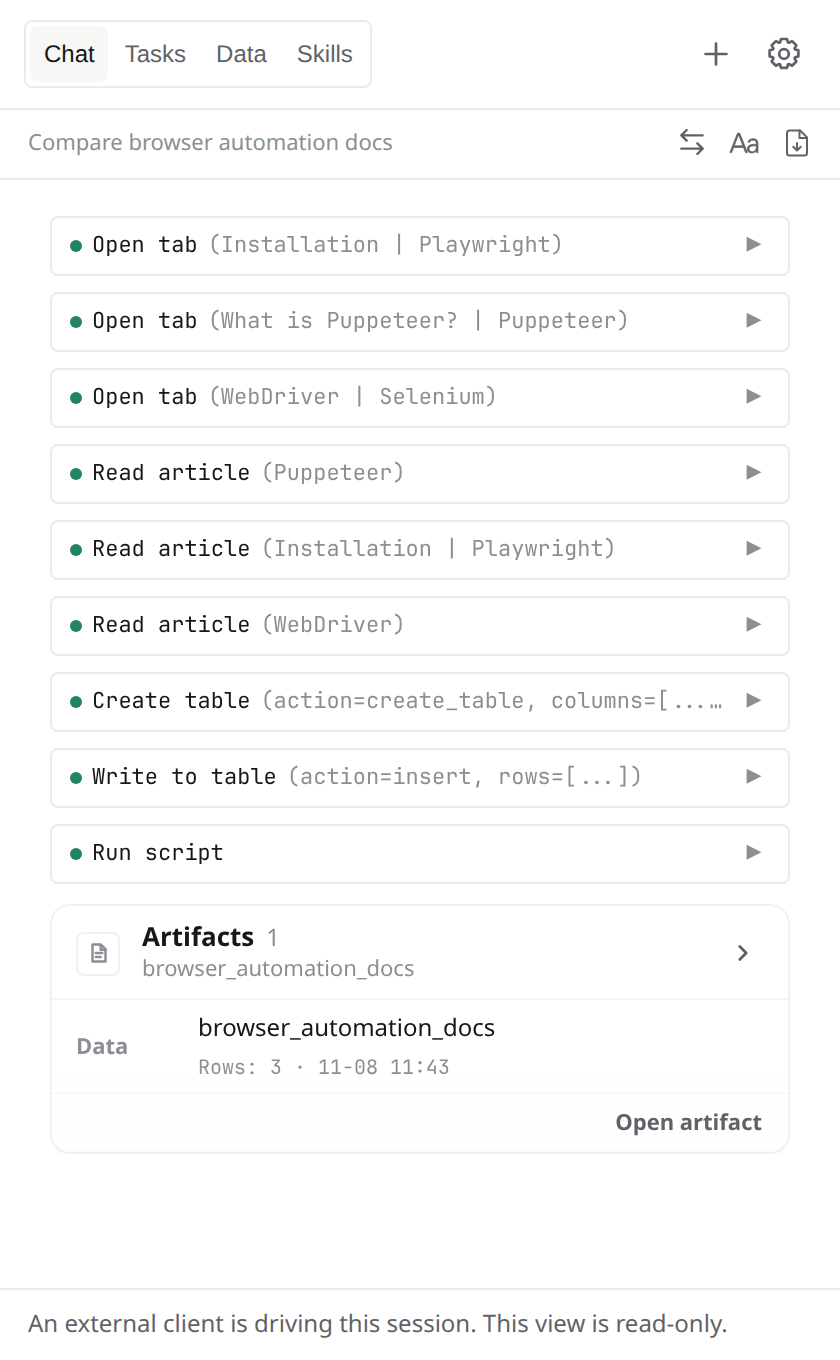
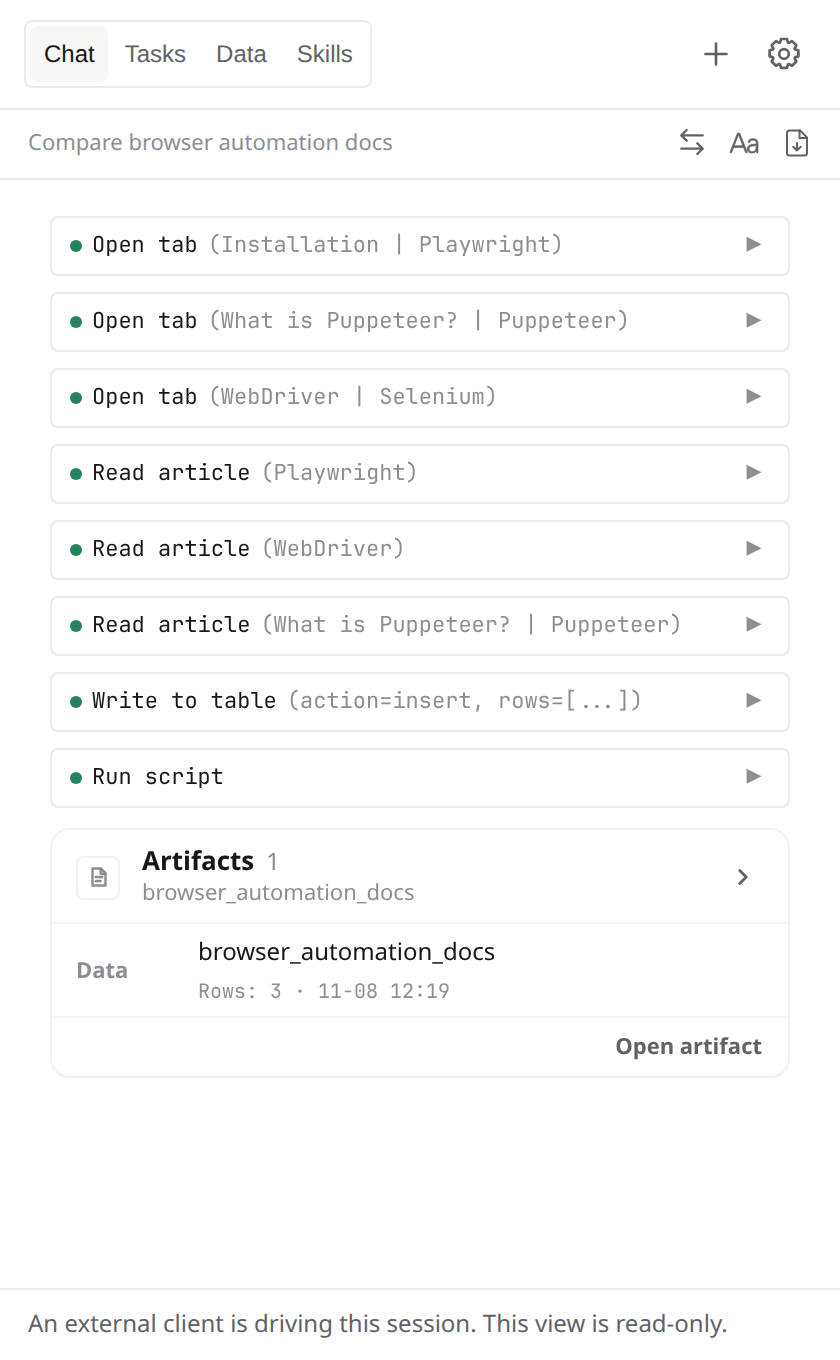
website: show the full direct-drive script inline and keep both agent tabs the same height

diff --git a/website/assets/site.css b/website/assets/site.css
@@ -120,19 +120,27 @@ code { font-size: .92em; overflow-wrap: anywhere; }
 .agent-access { border-top: 1px solid var(--line); }
 .agent-access .section-heading { display: flex; flex-wrap: wrap; justify-content: space-between; gap: 20px 40px; }
 .agent-access .section-heading > p { text-wrap: balance; }
-.agent-demo { margin-top: 38px; padding: 32px; border: 1px solid var(--line); border-radius: 8px; background: var(--soft); }
-.agent-mode-tabs { display: inline-flex; gap: 2px; margin-bottom: 24px; padding: 3px; border: 1px solid var(--line); border-radius: 6px; background: var(--surface); }
+.agent-demo { display: grid; grid-template-columns: minmax(0, 1fr); margin-top: 38px; padding: 32px; border: 1px solid var(--line); border-radius: 8px; background: var(--soft); }
+.agent-mode-tabs { display: inline-flex; justify-self: start; gap: 2px; margin-bottom: 24px; padding: 3px; border: 1px solid var(--line); border-radius: 6px; background: var(--surface); }
 .agent-mode-tabs[hidden] { display: none; }
 .agent-mode-tabs button { min-height: 34px; padding: 6px 16px; border: 0; border-radius: 4px; background: transparent; color: var(--secondary); font-size: 13px; font-weight: 500; transition: background-color 180ms var(--ease), color 180ms var(--ease); }
 .agent-mode-tabs button:hover, .agent-mode-tabs button[aria-selected="true"] { color: var(--ink); }
 .agent-mode-tabs button[aria-selected="true"] { background: var(--soft); }
 .agent-mode-tabs button:focus-visible { outline-offset: 2px; }
+.agent-mode { display: flex; flex-direction: column; min-width: 0; }
+.agent-mode[hidden] { display: none; }
+.agent-mode > .agent-demo-grid { flex: 1; }
 .agent-mode-tabs[hidden] ~ .agent-mode + .agent-mode { margin-top: 40px; }
 .agent-mode-summary { max-width: 720px; margin-bottom: 28px; font-size: 14px; line-height: 1.75; color: var(--secondary); }
+/* Side by side, both modes share one cell so switching tabs keeps the page height. */
+@media (min-width: 961px) {
+  .agent-mode-tabs:not([hidden]) ~ .agent-mode { grid-area: 2 / 1; }
+  .agent-mode-tabs:not([hidden]) ~ .agent-mode[hidden] { display: flex; visibility: hidden; }
+}
 .agent-demo-grid { display: grid; grid-template-columns: minmax(0, 1fr) 24px minmax(0, 360px); gap: 22px; align-items: stretch; }
 .agent-console-column, .agent-panel-column { display: grid; grid-template-rows: auto 1fr; min-width: 0; }
 .agent-surface-label { margin-bottom: 16px; font-size: 10px; font-weight: 550; line-height: 1.5; letter-spacing: 1px; color: var(--secondary); }
-.agent-console { overflow: hidden; min-width: 0; border: 1px solid #353535; border-radius: 6px; background: #191919; color: #f2f2f0; font-family: 'SF Mono', Consolas, monospace; }
+.agent-console { container-type: inline-size; overflow: hidden; min-width: 0; border: 1px solid #353535; border-radius: 6px; background: #191919; color: #f2f2f0; font-family: 'SF Mono', Consolas, monospace; }
 .console-titlebar { display: flex; align-items: center; gap: 15px; min-height: 42px; padding: 10px 18px; border-bottom: 1px solid #333; font-size: 11px; color: #b9b9b6; }
 .console-titlebar > span:last-child { margin-left: auto; font-family: -apple-system, BlinkMacSystemFont, 'Segoe UI', sans-serif; font-size: 10px; }
 .console-dots { display: flex; gap: 5px; }
@@ -140,6 +148,10 @@ code { font-size: .92em; overflow-wrap: anywhere; }
 .console-body { display: flex; flex-direction: column; gap: 18px; padding: 25px 24px; font-size: 14px; line-height: 1.7; overflow-wrap: anywhere; }
 .console-command { display: flex; gap: 12px; align-items: baseline; }
 .console-command code { font: inherit; }
+.console-heredoc { display: flex; flex-direction: column; gap: 6px; min-width: 0; }
+.console-script { margin: 0; padding-left: calc(1ch + 12px); overflow-x: auto; font: inherit; font-size: clamp(10.5px, calc((100cqi - 62px) / 43), .93em); line-height: 1.6; color: #e4e4e1; white-space: pre; scrollbar-width: thin; scrollbar-color: #444 transparent; }
+.console-script code { font: inherit; }
+.console-comment { color: #8b8b87; }
 .console-dollar { flex: none; color: #8b8b87; user-select: none; }
 .console-response, .console-tools { display: flex; flex-direction: column; gap: 2px; }
 .console-response strong { font-weight: 550; }
@@ -297,12 +309,12 @@ video { display: block; width: 100%; max-height: 70dvh; aspect-ratio: 16 / 9; ba
 }
 
 
-@media (max-width: 1000px) {
+@media (max-width: 1100px) {
   .agent-demo { padding: 22px; }
   .agent-demo-grid { grid-template-columns: minmax(0, 1fr) 20px minmax(0, 310px); gap: 16px; }
   .console-body { padding: 20px; gap: 17px; font-size: 12px; }
 }
-@media (max-width: 800px) {
+@media (max-width: 960px) {
   .agent-demo-grid { grid-template-columns: minmax(0, 1fr); gap: 20px; }
   .agent-panel-column { width: min(100%, 420px); justify-self: center; }
   .agent-connector { justify-self: center; transform: rotate(90deg); }
@@ -310,13 +322,14 @@ video { display: block; width: 100%; max-height: 70dvh; aspect-ratio: 16 / 9; ba
 }
 @media (max-width: 700px) {
   .agent-demo { margin-top: 28px; padding: 14px; }
-  .agent-mode-tabs { display: flex; margin-bottom: 18px; }
+  .agent-mode-tabs { display: flex; justify-self: stretch; margin-bottom: 18px; }
   .agent-mode-tabs button { flex: 1; padding-inline: 10px; }
   .agent-mode-summary { margin-bottom: 22px; font-size: 13px; }
   .agent-surface-label { font-size: 9px; margin-bottom: 12px; letter-spacing: .7px; }
   .console-titlebar { padding-inline: 14px; }
   .console-body { padding: 20px 15px; font-size: 12px; gap: 18px; }
   .console-command { gap: 8px; }
+  .console-script { padding-left: calc(1ch + 8px); }
   .agent-setup-note { display: block; margin-top: 26px; }
 }
 

diff --git a/website/assets/translations.js b/website/assets/translations.js
@@ -81,10 +81,9 @@ export const translations = {
       "agentTaskTab": "Hand qz a task",
       "agentDriveSummary": "No model to configure in qz: the agent you already use gets the same browser abilities as qz. One script runs every step in your browser and returns only the result, so it stays token-efficient.",
       "agentDriveCreate": "qz session create --title \"Compare browser automation docs\"",
-      "agentDriveSession": "sessionId 957371d5090d4412997473c807dcbe19",
-      "agentDriveReading": "I’ll read the three official docs with one qz script.",
-      "agentDriveScript": "qz script --session 957371d5090d4412997473c807dcbe19 compare-docs.js",
-      "agentDriveResult": "Saved 3 rows with source links.",
+      "agentDriveSession": "sessionId 53d24037c61a42ed812910577cc7578c",
+      "agentDriveScript": "qz script --session 53d24037c61a42ed812910577cc7578c - &lt;&lt;'JS'",
+      "agentDriveCode": "<span class=\"console-comment\">// Read three docs in parallel; save a sourced table in qz.</span>\nconst docs = {\n  Playwright: \"https://playwright.dev/docs/intro\",\n  Puppeteer: \"https://pptr.dev/guides/what-is-puppeteer\",\n  Selenium: \"https://www.selenium.dev/documentation/webdriver/\",\n};\nconst rows = await Promise.all(\n  Object.entries(docs).map(async ([Tool, Source]) =&gt; {\n    const page = qz.tab(await qz.openTab({ url: Source }));\n    const { text } = await page.read();\n    const Summary = text.split(\"\\n\\n\").find(p =&gt; !p.startsWith(\"#\"));\n    return { Tool, Summary, Source };\n  }),\n);\nconst table = \"browser_automation_docs\";\nawait qz.call(\"data_store\", { action: \"insert\", table, rows });\nreturn { table, rows: rows.length };\nJS",
       "agentTaskSummary": "qz plans and runs the whole task with the model configured in qz. Your terminal or agent follows the progress and collects the saved data.",
       "agentTerminalPrompt": "qz create \"Compare Playwright, Puppeteer and Selenium. Save a sourced table.\" --stream",
       "agentTerminalQueued": "Task queued",
@@ -385,10 +384,9 @@ export const translations = {
       "agentTaskTab": "把任务交给轻舟",
       "agentDriveSummary": "无需在轻舟配置模型接口，你熟悉的 Agent 就能拥有和轻舟一样的浏览器操作能力。一段脚本在浏览器里跑完所有步骤，只把结果交回 Agent，省 token。",
       "agentDriveCreate": "qz session create --title \"对比浏览器自动化文档\"",
-      "agentDriveSession": "sessionId 1f3435ea8988466a9ad8ee3e667a4cce",
-      "agentDriveReading": "我用一段 qz 脚本读取三个官方文档。",
-      "agentDriveScript": "qz script --session 1f3435ea8988466a9ad8ee3e667a4cce compare-docs.js",
-      "agentDriveResult": "已保存 3 行数据，附有来源链接。",
+      "agentDriveSession": "sessionId e86f426dccdd476c9ffaebd8dbad4438",
+      "agentDriveScript": "qz script --session e86f426dccdd476c9ffaebd8dbad4438 - &lt;&lt;'JS'",
+      "agentDriveCode": "<span class=\"console-comment\">// 并行读取三个官方文档，在轻舟中保存带来源的表格。</span>\nconst docs = {\n  Playwright: \"https://playwright.dev/docs/intro\",\n  Puppeteer: \"https://pptr.dev/guides/what-is-puppeteer\",\n  Selenium: \"https://www.selenium.dev/documentation/webdriver/\",\n};\nconst rows = await Promise.all(\n  Object.entries(docs).map(async ([Tool, Source]) =&gt; {\n    const page = qz.tab(await qz.openTab({ url: Source }));\n    const { text } = await page.read();\n    const Summary = text.split(\"\\n\\n\").find(p =&gt; !p.startsWith(\"#\"));\n    return { Tool, Summary, Source };\n  }),\n);\nconst table = \"browser_automation_docs\";\nawait qz.call(\"data_store\", { action: \"insert\", table, rows });\nreturn { table, rows: rows.length };\nJS",
       "agentTaskSummary": "由轻舟用已配置的模型规划并完成整个任务，终端或 Agent 只需跟进进度、取回保存的数据。",
       "agentTerminalPrompt": "qz create \"对比 Playwright、Puppeteer 和 Selenium，保存带来源的表格。\" --stream",
       "agentTerminalQueued": "Task queued",

diff --git a/website/index.html b/website/index.html
@@ -99,13 +99,29 @@
             <div class="console-titlebar"><span class="console-dots" aria-hidden="true"><i></i><i></i><i></i></span><span>qz</span><span data-i18n="agentExampleLabel">Example session</span></div>
             <div class="console-body">
               <div class="console-command"><span class="console-dollar" aria-hidden="true">$</span><code data-i18n="agentDriveCreate">qz session create --title &quot;Compare browser automation docs&quot;</code></div>
-              <div class="console-response"><span class="console-dim" data-i18n="agentDriveSession">sessionId 957371d5090d4412997473c807dcbe19</span></div>
-              <p class="console-narration" data-i18n="agentDriveReading">I’ll read the three official docs with one qz script.</p>
-              <div class="console-command"><span class="console-dollar" aria-hidden="true">$</span><code data-i18n="agentDriveScript">qz script --session 957371d5090d4412997473c807dcbe19 compare-docs.js</code></div>
-              <div class="console-response"><span class="console-dim">{"ok":true,"result":{"table":"browser_automation_docs","rows":3},"trace":["read 3 pages"],"context":{"qz_skills":[]}}</span></div>
-              <p class="console-result" data-i18n="agentDriveResult">Saved 3 rows with source links.</p>
-              <div class="console-command"><span class="console-dollar" aria-hidden="true">$</span><code>qz data export &quot;browser_automation_docs&quot; --format csv</code></div>
-              <p class="console-file"><svg viewBox="0 0 24 24" fill="none" aria-hidden="true"><path d="M6 3h8l4 4v14H6zM14 3v5h4M9 13h6M9 16h4"></path></svg><span>browser_automation_docs.csv</span></p>
+              <div class="console-response"><span class="console-dim" data-i18n="agentDriveSession">sessionId 53d24037c61a42ed812910577cc7578c</span></div>
+              <div class="console-heredoc">
+                <div class="console-command"><span class="console-dollar" aria-hidden="true">$</span><code data-i18n="agentDriveScript">qz script --session 53d24037c61a42ed812910577cc7578c - &lt;&lt;'JS'</code></div>
+                <pre class="console-script"><code data-i18n="agentDriveCode"><span class="console-comment">// Read three docs in parallel; save a sourced table in qz.</span>
+const docs = {
+  Playwright: "https://playwright.dev/docs/intro",
+  Puppeteer: "https://pptr.dev/guides/what-is-puppeteer",
+  Selenium: "https://www.selenium.dev/documentation/webdriver/",
+};
+const rows = await Promise.all(
+  Object.entries(docs).map(async ([Tool, Source]) =&gt; {
+    const page = qz.tab(await qz.openTab({ url: Source }));
+    const { text } = await page.read();
+    const Summary = text.split("\n\n").find(p =&gt; !p.startsWith("#"));
+    return { Tool, Summary, Source };
+  }),
+);
+const table = "browser_automation_docs";
+await qz.call("data_store", { action: "insert", table, rows });
+return { table, rows: rows.length };
+JS</code></pre>
+              </div>
+              <div class="console-response"><span class="console-dim">{"ok":true,"result":{"table":"browser_automation_docs","rows":3},"trace":[],"context":{"qz_skills":[]}}</span></div>
             </div>
           </div>
         </div>

diff --git a/website/assets/screens/SOURCES.md b/website/assets/screens/SOURCES.md
@@ -83,30 +83,32 @@ isolated Chromium profile with the production build of this repository and its i
 preference set. No model was configured in qz, and no page or tool responses were mocked.
 
 The qz CLI from the same checkout created one titled session per language,
-`Compare browser automation docs` and `对比浏览器自动化文档`, then ran this script once:
+`Compare browser automation docs` and `对比浏览器自动化文档`, then ran this script once with
+`qz script --session ID -` on stdin:
 
 ```js
-// Read three official docs in parallel and save a sourced table in qz.
+// Read three docs in parallel; save a sourced table in qz.
 const docs = {
   Playwright: "https://playwright.dev/docs/intro",
   Puppeteer: "https://pptr.dev/guides/what-is-puppeteer",
   Selenium: "https://www.selenium.dev/documentation/webdriver/",
 };
-const rows = await Promise.all(Object.entries(docs).map(async ([Tool, Source]) => {
-  const page = qz.tab(await qz.openTab({ url: Source }));
-  const { excerpt } = await page.read({ limit: 1200 });
-  return { Tool, Summary: excerpt, Source };
-}));
+const rows = await Promise.all(
+  Object.entries(docs).map(async ([Tool, Source]) => {
+    const page = qz.tab(await qz.openTab({ url: Source }));
+    const { text } = await page.read();
+    const Summary = text.split("\n\n").find(p => !p.startsWith("#"));
+    return { Tool, Summary, Source };
+  }),
+);
 const table = "browser_automation_docs";
-await qz.call("data_store", { action: "create_table", table, columns: ["Tool", "Summary", "Source"] });
 await qz.call("data_store", { action: "insert", table, rows });
-trace(`read ${rows.length} pages`);
 return { table, rows: rows.length };
 ```
 
 The Chinese run used the same script with a Chinese first comment. Each run saved the three-row
-`browser_automation_docs` table, and the Side Panel shows its nine calls and the saved table. The
-Drive terminal repeats the commands, session IDs, and script receipts of these runs. `qz data
-export` returned a JSON receipt for the CSV file; the terminal shows its filename. Each session was
-cancelled after capture, and its profile was removed. The capture helper is
-`tests/results/website/capture-drive.mjs` in the ignored local results.
+`browser_automation_docs` table with Tool, Summary, and Source columns; `qz data export` confirmed
+it as CSV. The Side Panel shows the eight calls and the saved table. The Drive terminal repeats each
+run's commands, session ID, script, and receipt. Each session was cancelled after capture, and its
+profile was removed. The capture helper is `tests/results/website/capture-drive.mjs` in the
+ignored local results.

diff --git a/website/README.md b/website/README.md
@@ -26,8 +26,8 @@ path `/qz-browser-agent/`.
 - The Agent-friendly section has two tabs, **Drive the browser** and **Hand qz a task**; without
   JavaScript, both appear in order. Each tab pairs an authored terminal with a native narrow Side
   Panel screenshot of the documentation-research task. The Drive terminal repeats the commands,
-  session IDs, and script receipts of the real CLI runs captured in `assets/screens/drive-en.png`
-  and `drive-zh.png`. The Task terminal is an illustrative command example beside `agent-en.png`
+  session IDs, full scripts, and receipts of the real CLI runs captured in
+  `assets/screens/drive-en.png` and `drive-zh.png`. The Task terminal is an illustrative command example beside `agent-en.png`
   and `agent-zh.png`, which show the same original English conversation in each interface language.
   See [screenshot sources](assets/screens/SOURCES.md) for capture details.
 - The CLI and Skill installation commands use the published `qz-browser-agent` npm package and
